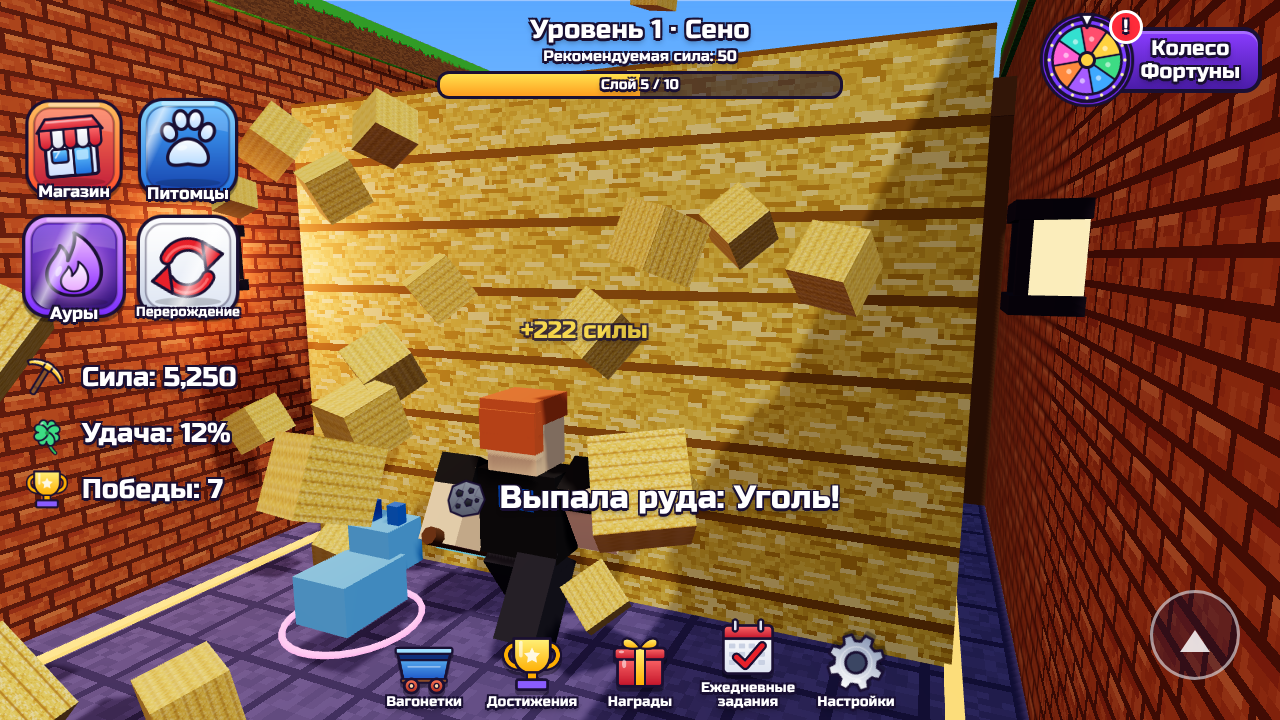
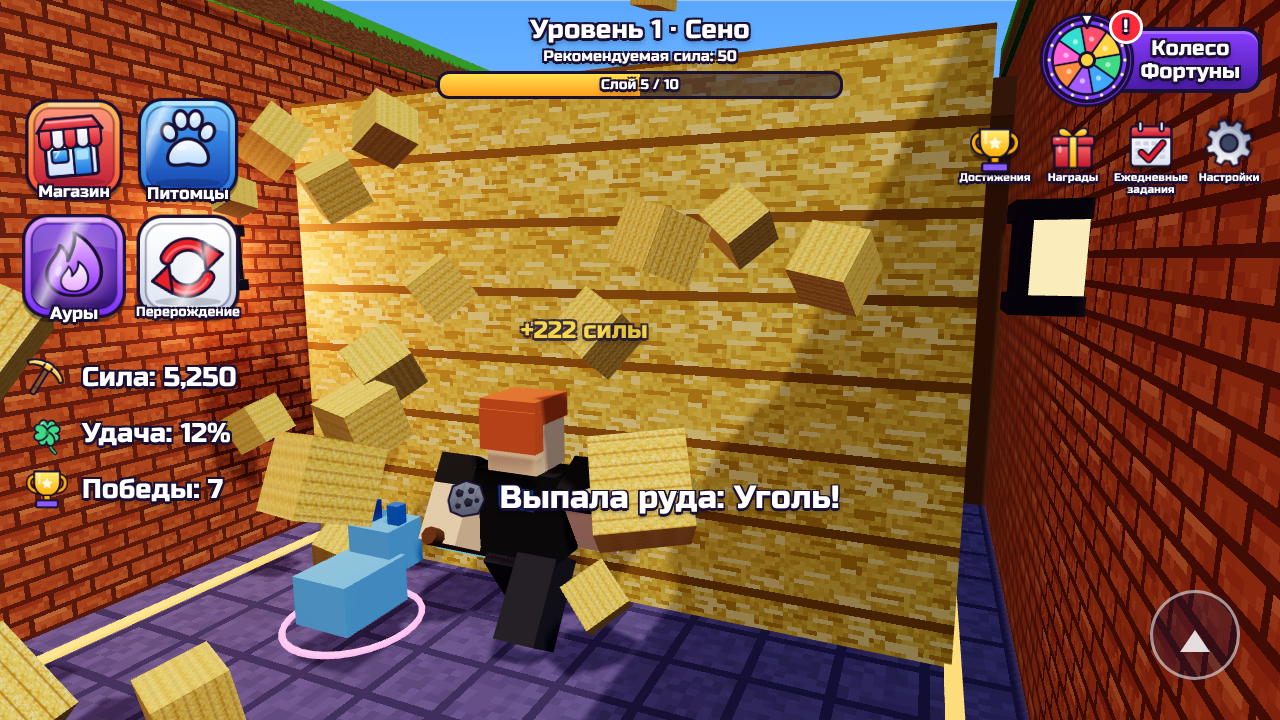
Wall Breaker: move menu buttons top-right, drop carts button, signs face aisle
Claude-Session: https://claude.ai/code/session_01Cq7LsBAaJFPkbeiSJhJFDh

Changed region(s): [[0.2812, 0.8556, 0.7188, 1.0], [0.75, 0.1528, 1.0, 0.275]]

diff --git a/games/wall-breaker/tools/preview.html b/games/wall-breaker/tools/preview.html
@@ -35,10 +35,11 @@
   #wheel .wl img { position: absolute; left: 0; top: 0; width: 96px; height: 96px; }
   #wheel .badge { position: absolute; left: 70px; top: -2px; width: 28px; height: 28px; border-radius: 50%; background: #ff2b3a; border: 3px solid #fff; color: #fff; font-size: 18px; text-align: center; line-height: 27px; z-index: 2; }
   /* нижний ряд кнопок */
-  #bar { position: absolute; left: 50%; bottom: 10px; transform: translateX(-50%); display: flex; gap: 16px; align-items: flex-end; }
-  .bb { display: flex; flex-direction: column; align-items: center; width: 92px; }
-  .bb img { width: 70px; height: 70px; filter: drop-shadow(0 4px 0 rgba(0,0,0,.35)); }
-  .bb span { font-size: 14px; text-align: center; line-height: 1.05; margin-top: -4px; }
+  /* кнопки в правом верхнем углу, под колесом фортуны */
+  #bar { position: absolute; right: 14px; top: 118px; display: flex; gap: 4px; align-items: flex-start; }
+  .bb { display: flex; flex-direction: column; align-items: center; width: 74px; }
+  .bb img { width: 58px; height: 58px; filter: drop-shadow(0 4px 0 rgba(0,0,0,.35)); }
+  .bb span { font-size: 11px; text-align: center; line-height: 1.05; margin-top: -4px; }
   #jump { position: absolute; right: 40px; bottom: 40px; width: 84px; height: 84px; border-radius: 50%; background: rgba(30,20,60,.35); border: 3px solid rgba(255,255,255,.55); }
   #jump::after { content: ''; position: absolute; left: 27px; top: 22px; border: 15px solid transparent; border-bottom: 22px solid rgba(255,255,255,.85); }
   /* панель уровня */
@@ -76,7 +77,6 @@
   </div>
   <div id="wheel" class="stroke"><div class="wl"><img src="http://wb.local/icons/layer_wheel_base.png"><img id="wdisc" src="http://wb.local/icons/layer_wheel_disc.png"><img src="http://wb.local/icons/layer_wheel_top.png"></div><div class="badge" id="wbadge">!</div><div class="pill">Колесо<br>Фортуны</div></div>
   <div id="bar" class="stroke">
-    <div class="bb"><img src="http://wb.local/icons/bar_carts.png"><span>Вагонетки</span></div>
     <div class="bb"><img src="http://wb.local/icons/bar_achievements.png"><span>Достижения</span></div>
     <div class="bb"><img src="http://wb.local/icons/bar_rewards.png"><span>Награды</span></div>
     <div class="bb"><img src="http://wb.local/icons/bar_daily.png"><span>Ежедневные задания</span></div>
@@ -469,7 +469,8 @@ function buildHub() {
     });
     // табличка позади ямы (с дальней от центра стороны), развёрнута к центру
     const sg = new THREE.Group(); g.add(sg);
-    sg.position.set(-Math.cos(phi) * (PR + 2.2), 0, -Math.sin(phi) * (PR + 2.2)); sg.rotation.y = Math.atan2(Math.cos(phi), Math.sin(phi));
+    // все таблички стоят с дальней стороны ямы и смотрят на главный проход (+x)
+    sg.position.set(-(PR + 2.2), 0, 0); sg.rotation.y = Math.PI / 2;
     const s = sign({ w: 10, h: 3.6, title: p.name, sub: p.sub, icon: p.open ? 'stat_strength' : p.empty ? null : 'btn_lock', bg: p.bg });
     s.position.set(0, 6.8, 0); sg.add(s);
     box(.5, 5, .5, std(0x6b3f1d), -2.5, 2.5, -.6, sg); box(.5, 5, .5, std(0x6b3f1d), 2.5, 2.5, -.6, sg);
@@ -686,9 +687,9 @@ function animHud(t) {
   $('wbadge').style.transform = `scale(${1 + .22 * Math.max(0, Math.sin(t * 6))})`;
   document.querySelectorAll('#bar .bb img').forEach((im, i) => {
     let tr = `translateY(${-4 * Math.sin(t * 2.6 + i * .9)}px)`;
-    if (i === 2 && (t % 2.4) < .6) tr += ` rotate(${12 * Math.sin(t * 28)}deg)`;
-    if (i === 4) tr += ` rotate(${(t * 40) % 360}deg)`;
-    if (i === 1) tr += ` scale(${1 + .06 * Math.max(0, Math.sin(t * 4))})`;
+    if (i === 1 && (t % 2.4) < .6) tr += ` rotate(${12 * Math.sin(t * 28)}deg)`;
+    if (i === 3) tr += ` rotate(${(t * 40) % 360}deg)`;
+    if (i === 0) tr += ` scale(${1 + .06 * Math.max(0, Math.sin(t * 4))})`;
     im.style.transform = tr;
   });
   const st = document.querySelectorAll('#stats img');

diff --git a/games/wall-breaker/README.md b/games/wall-breaker/README.md
@@ -17,7 +17,7 @@ tools/                ← исходники, из которых сгенери
 | Группа | Файлы |
 |---|---|
 | Главные кнопки (слева 2×2) | `btn_shop`, `btn_pets`, `btn_auras`, `btn_rebirth`; колесо фортуны — `btn_wheel` |
-| Нижний ряд (без фона) | `bar_carts` (вагонетки), `bar_achievements`, `bar_rewards`, `bar_daily` (ежедневные задания), `bar_settings` |
+| Правый верхний угол (без фона, под колесом) | `bar_achievements`, `bar_rewards`, `bar_daily` (ежедневные задания), `bar_settings`. Есть и `bar_carts` (вагонетки), но кнопка убрана из интерфейса |
 | Прочие кнопки | `btn_inventory`, `btn_levels`, `btn_lobby`, `btn_back`, `btn_trade`, `btn_close`, `btn_lock`, `btn_donate` |
 | Показатели | `stat_strength` (золотая кирка), `stat_luck` (клевер), `stat_wins` (кубок) |
 
@@ -46,7 +46,7 @@ tools/                ← исходники, из которых сгенери
 
 - вход в уровни стоит на центральной оси. Это арка **без портала**: через неё сразу виден коридор и первая стена. Яйца напротив входа;
 - магазин кирок справа сделан **ступенями в 3 ряда**: ряд 1 на полу, ряды 2 и 3 каждый на ступеньку выше, посередине лестница. Перед каждой киркой площадка с ценой в победах: встал на неё — купил;
-- ямы прокачки стоят слева **двумя рядами по 6, лицом друг к другу**. Между рядами широкая дорожка, между ямами поперечные проходы, вход в забор и таблички (двусторонние) смотрят на дорожку. Каждая яма окрашена в свой материал: стенки, бортик и кристаллы. Открыта Землянка; Угольная, Каменная, Железная, Золотая и Алмазная закрыты до нужного числа перерождений; 6 мест свободны под новые ямы;
+- ямы прокачки стоят слева **двумя рядами по 6, лицом друг к другу**. Между рядами широкая дорожка, между ямами поперечные проходы, вход в забор смотрит на дорожку, таблички стоят с дальней стороны ямы и развёрнуты к главному проходу. Каждая яма окрашена в свой материал: стенки, бортик и кристаллы. Открыта Землянка; Угольная, Каменная, Железная, Золотая и Алмазная закрыты до нужного числа перерождений; 6 мест свободны под новые ямы;
 - торговец в углу, центральный проход свободный;
 - 10 уровней идут по прямой, в каждом по 10 слоёв;
 - между уровнями ниша с наградой (+1 / +3 победы) и кнопкой «В лобби».
